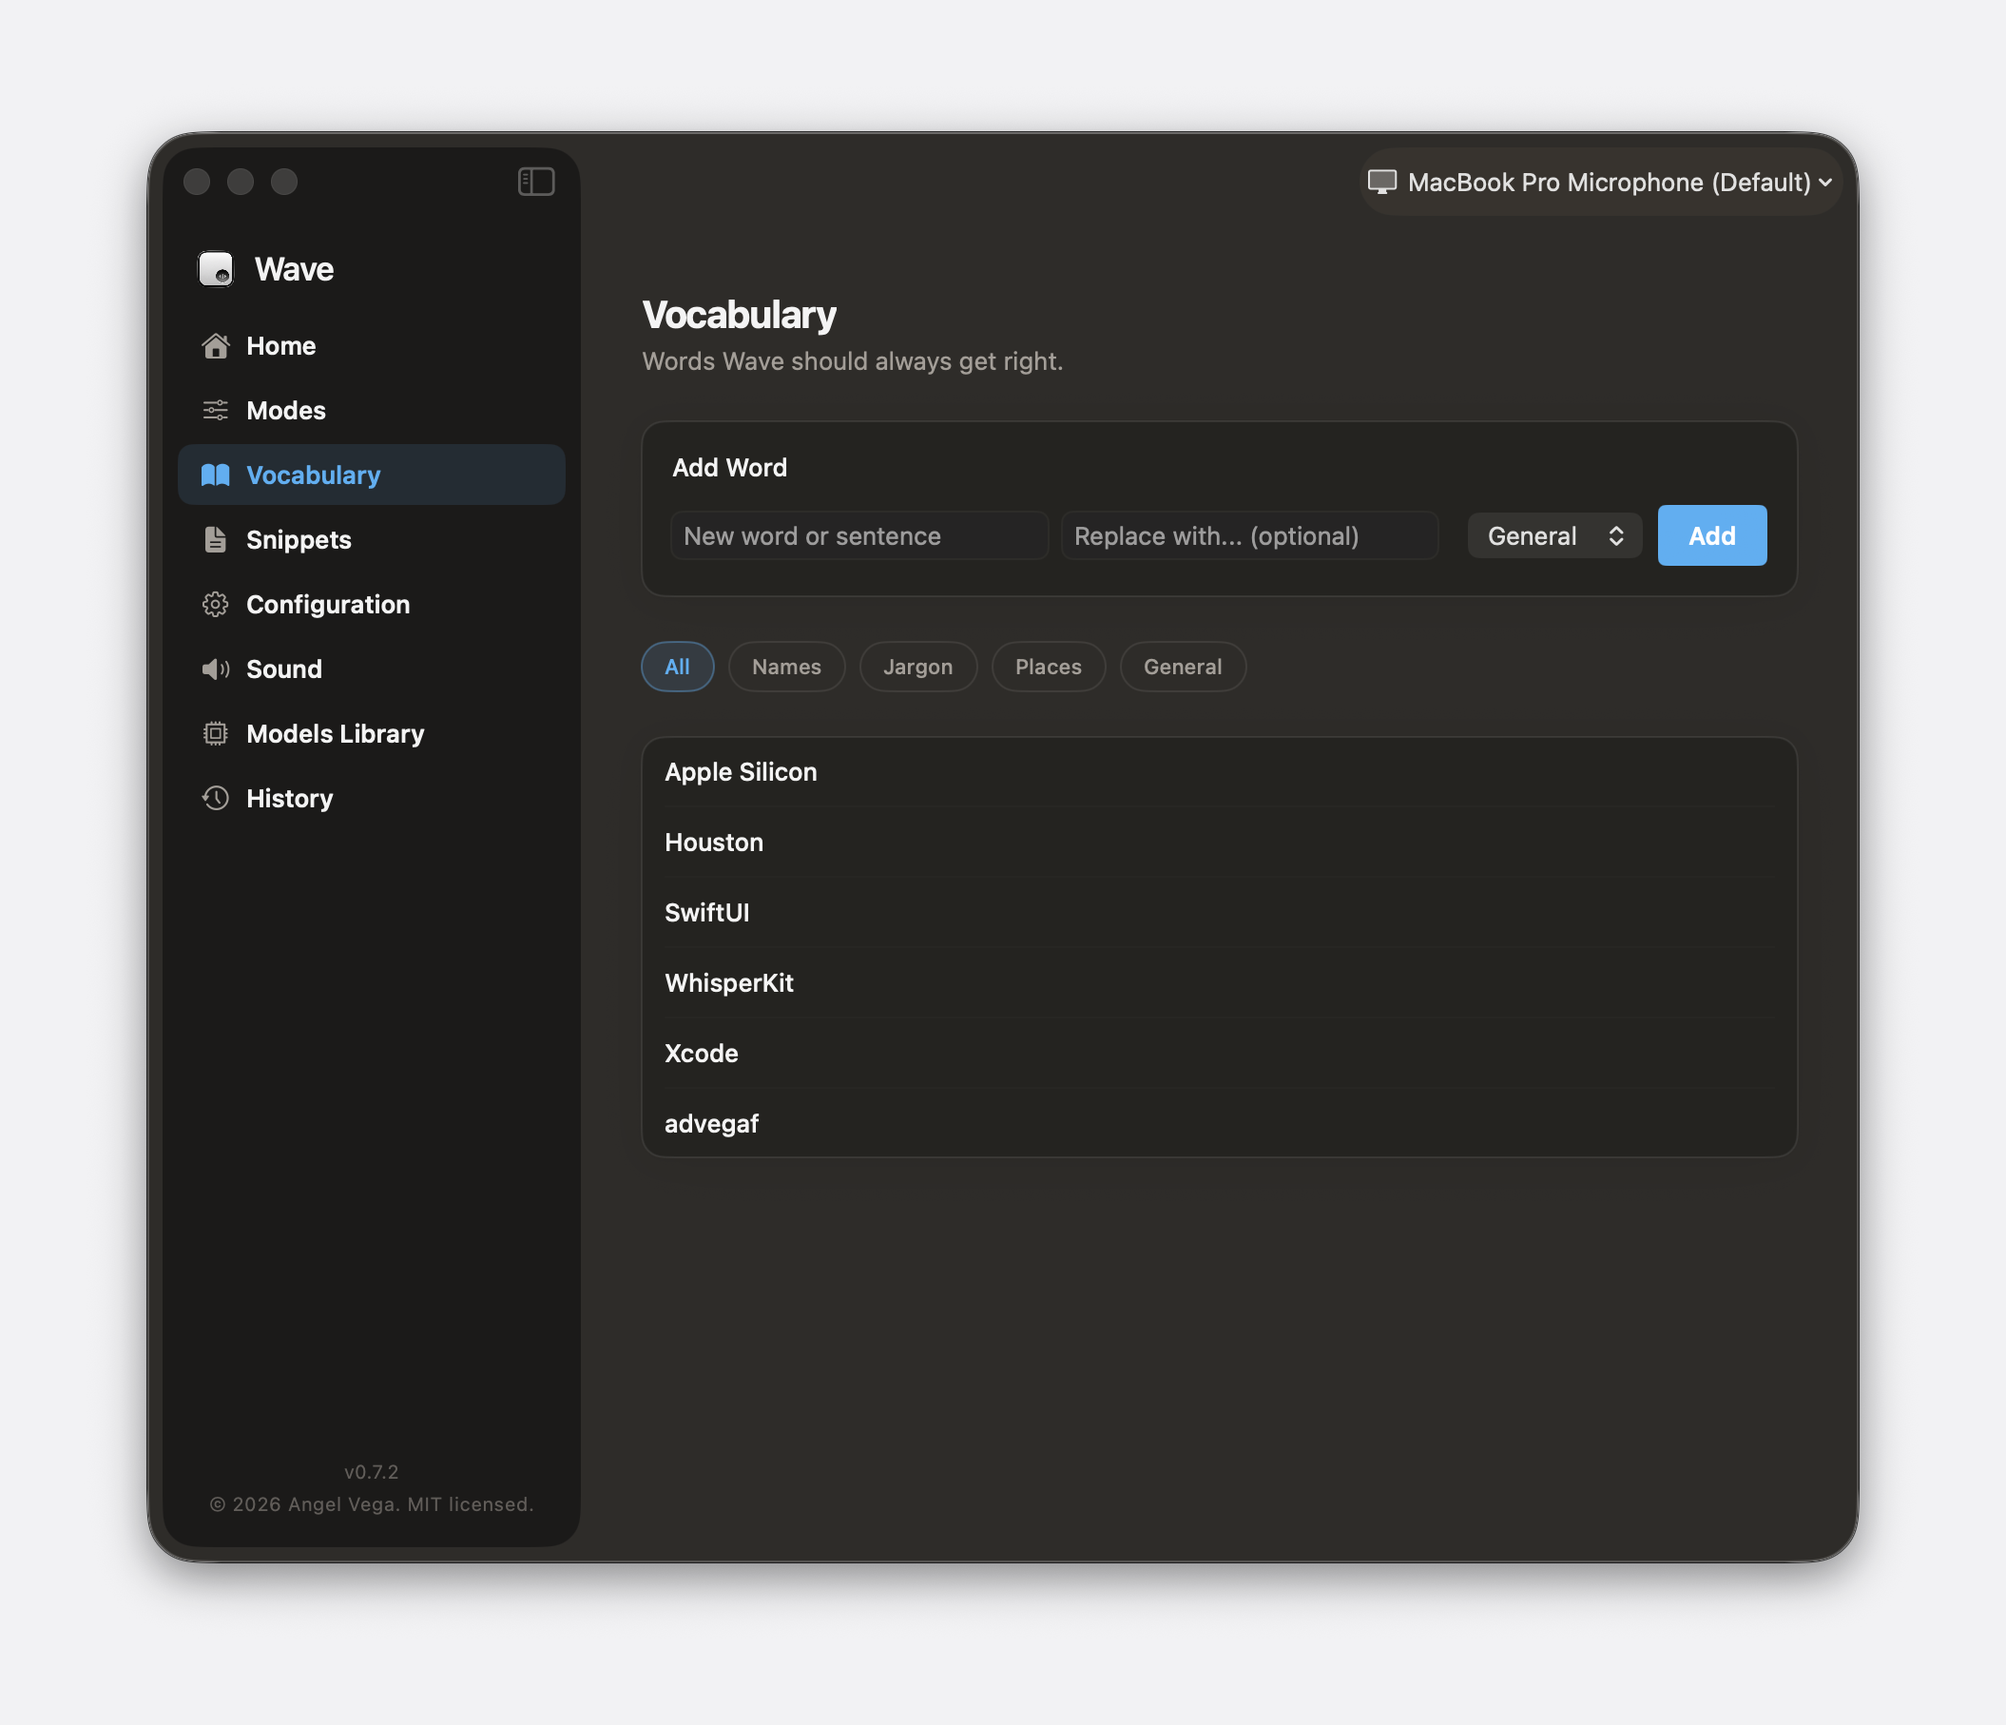
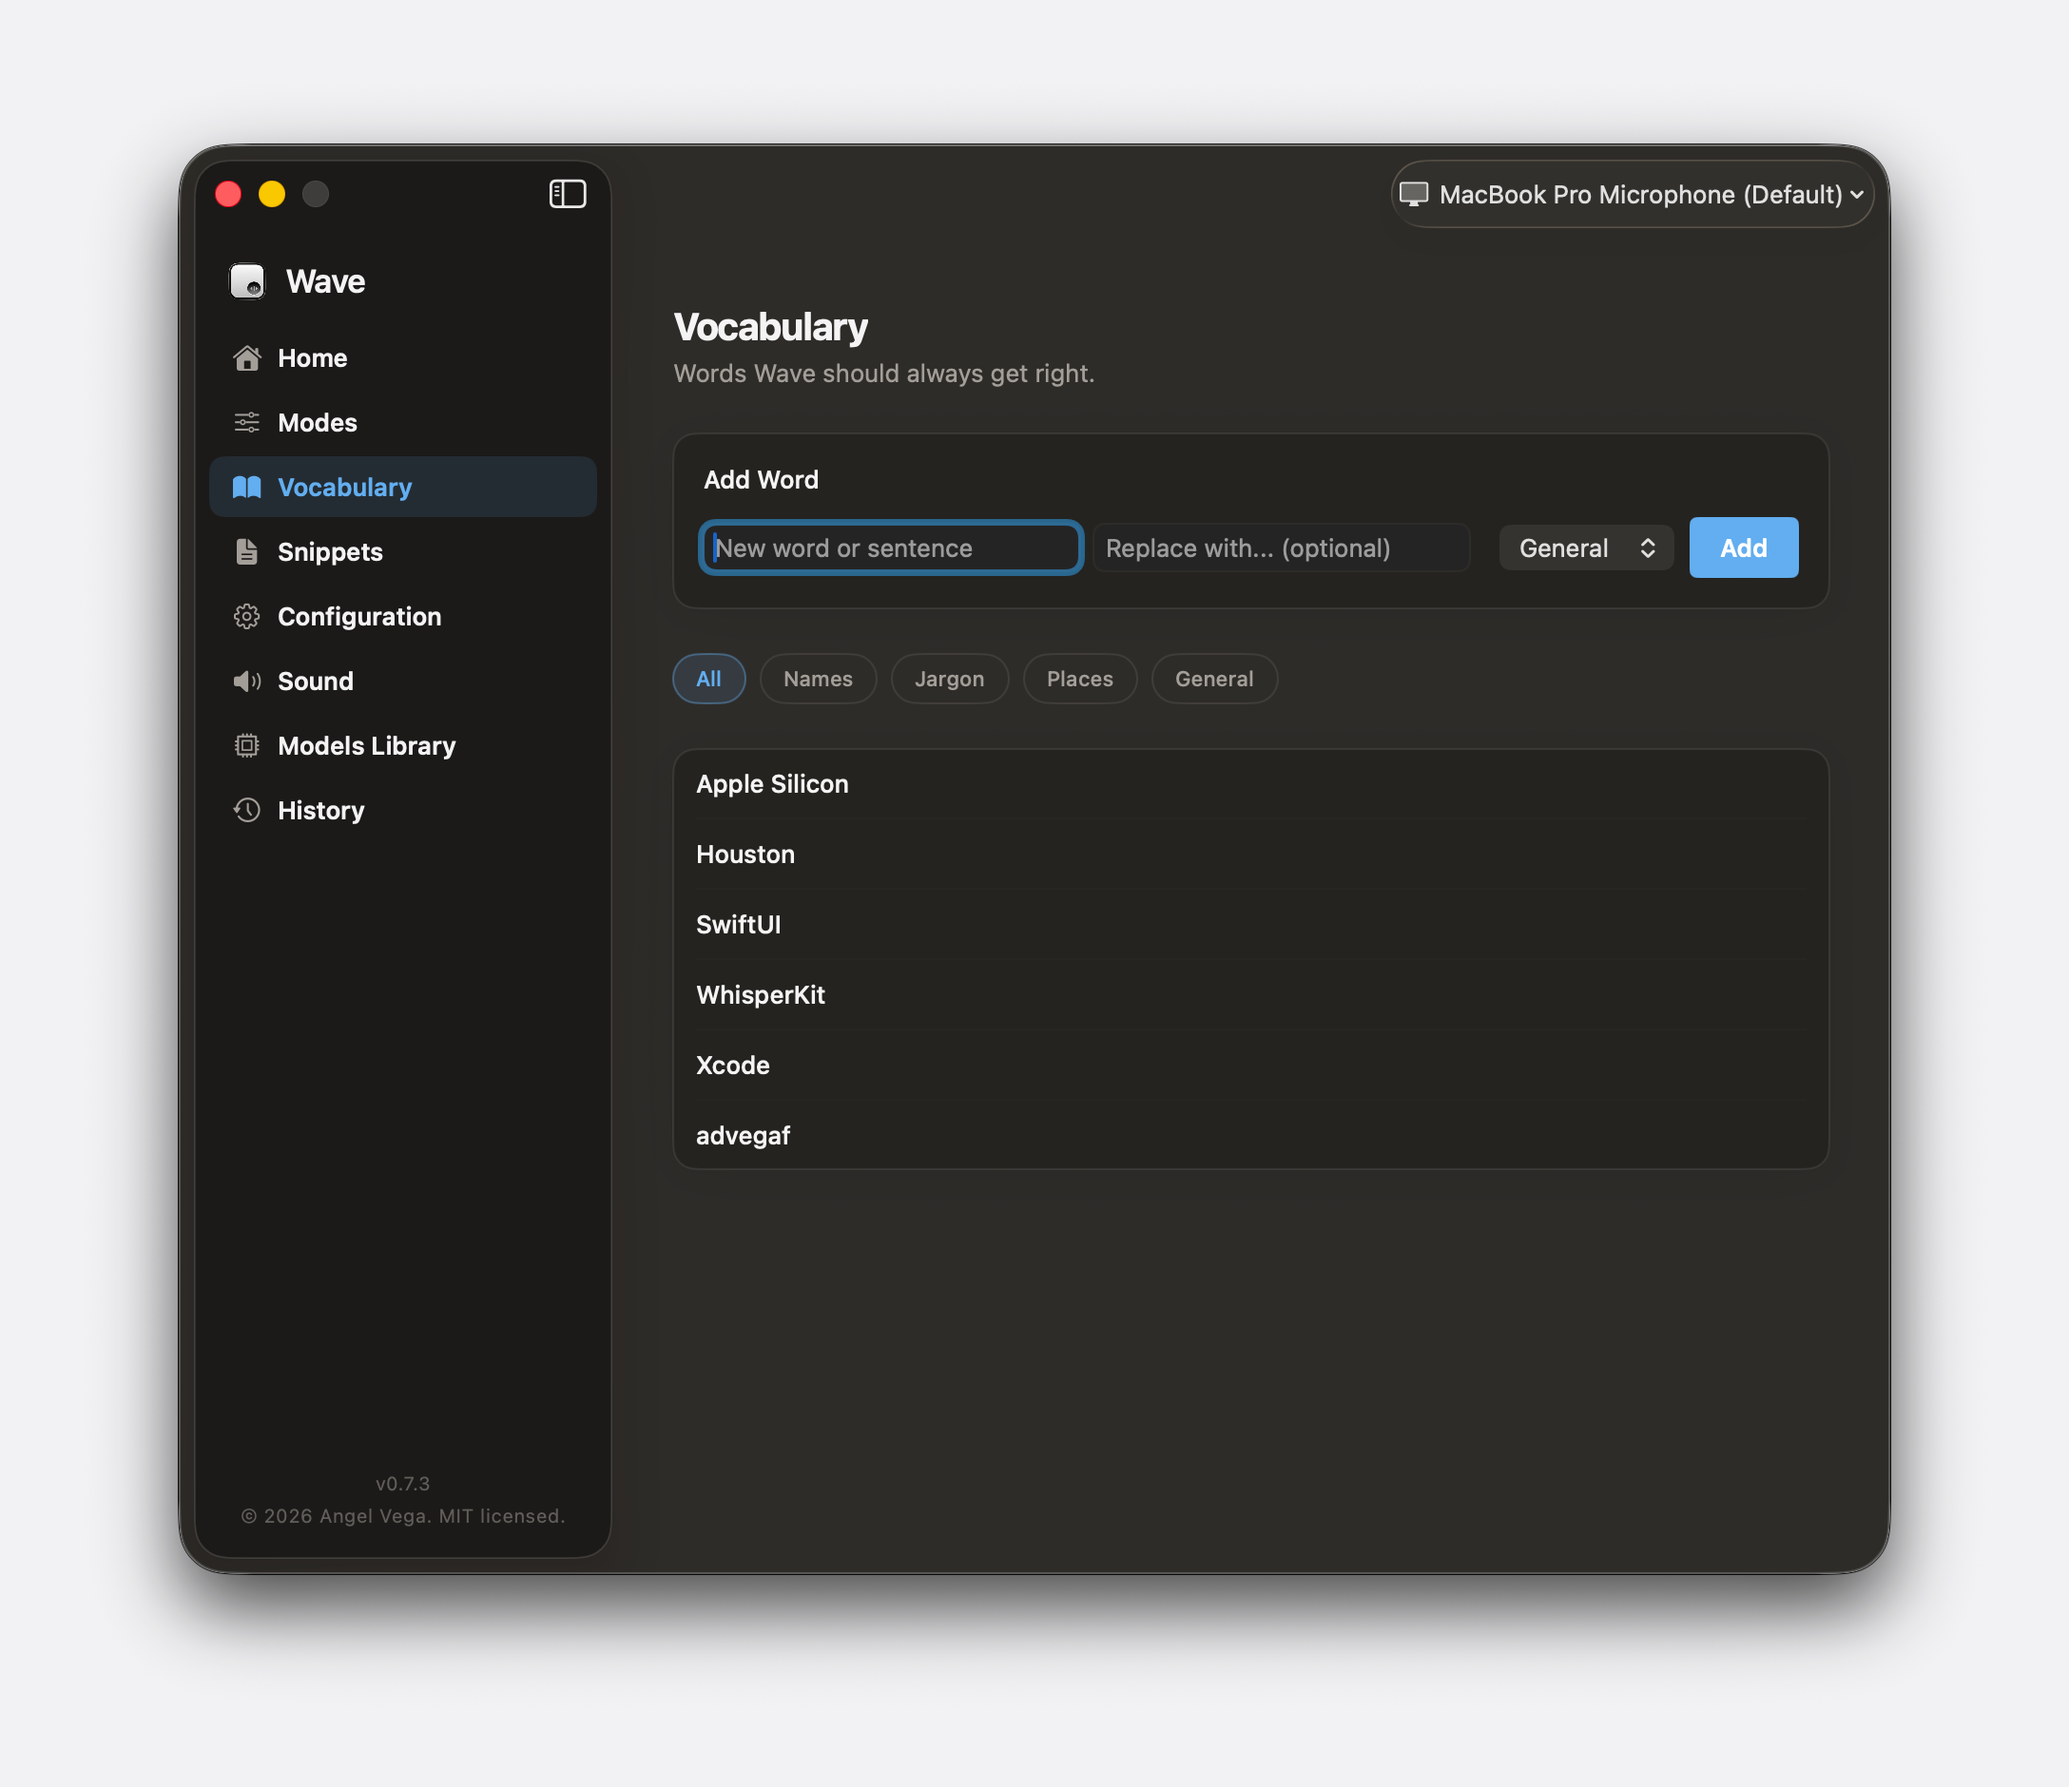
Wave v0.7.3: honest release card, menu bar mode persists, README pass
The What's New card printed today's date beside "Initial Release" and a
description of Deepgram, Claude and GPT, a stack Wave stopped calling in
0.7.0. A rewrite level picked from the menu bar was never written back, so
it reverted on the next launch while every other setter saved.

README
- Rewrote the prose against the house style the sibling repos use: no
  aphorism openers, no run of short declaratives standing in for an
  argument, a reason attached to each assertion rather than a punchline.
- The hero and the alt text now say 0.7.3.

Images
- Figure canvases are constants rather than the measured size of a
  capture. macOS draws a key window a wider shadow than an inactive one and
  a capture carries that shadow as transparent margin, so the same three
  figures came out 2176 wide on one run and 2110 on the next. Fixed canvas,
  content centred, same output every time. Verified by running the script
  twice and comparing.
- docs/images/logo.png ships at 512 rather than 1024. The README draws it
  at 120 points, so the other 1MB was detail nobody can see on the first
  image the page loads.

CONTRIBUTING said the sizes were stable across runs. They were not until
this commit, so the paragraph now says what makes them stable and why.

Version moves in Wave/Info.plist and project.yml together.

diff --git a/Tools/Screenshots/ArticleImages.swift b/Tools/Screenshots/ArticleImages.swift
@@ -236,19 +236,27 @@ do {
     write(image, to: outDirectory.appendingPathComponent("download.png"))
 }
 
-// The windows, at their own size on the ground. No frame drawn: these are
-// windows already, and a frame around a frame reads as a mistake.
+// The windows on the ground, centred in a fixed canvas. No frame drawn: these
+// are windows already, and a frame around a frame reads as a mistake.
+//
+// The canvas is a constant rather than the capture's own size plus a margin.
+// macOS draws a key window a wider drop shadow than an inactive one, and a
+// capture carries that shadow as transparent margin, so sizing the canvas off
+// the measured content meant the same three figures came out 2176 wide on one
+// run and 2110 on the next. Fixing the canvas and centring inside it makes the
+// output the same every time, and a shadow that is 33px wider just sits 33px
+// further into the margin.
+let figureCanvas = CGSize(width: 2176, height: 1880)
 for name in ["modes", "vocabulary", "history"] {
     let capture = raw(name)
-    let margin: CGFloat = 120
-    let canvasSize = CGSize(width: capture.content.width + margin * 2,
-                            height: capture.content.height + margin * 2)
-    let image = ground(Int(canvasSize.width), Int(canvasSize.height))
+    let image = ground(Int(figureCanvas.width), Int(figureCanvas.height))
     withCanvas(image) {
-        place(capture, content: CGRect(x: margin, y: margin,
-                                       width: capture.content.width,
-                                       height: capture.content.height),
-              canvasHeight: canvasSize.height, interpolation: .none)
+        place(capture,
+              content: CGRect(x: (figureCanvas.width - capture.content.width) / 2,
+                              y: (figureCanvas.height - capture.content.height) / 2,
+                              width: capture.content.width,
+                              height: capture.content.height),
+              canvasHeight: figureCanvas.height, interpolation: .none)
     }
     write(image, to: outDirectory.appendingPathComponent(name + ".png"))
 }

diff --git a/Wave/UI/MainWindow/Home/HomeView.swift b/Wave/UI/MainWindow/Home/HomeView.swift
@@ -159,8 +159,8 @@ struct HomeView: View {
     /// today's date beside a description of a stack the app no longer uses.
     /// Update it in the same commit that moves CFBundleShortVersionString.
     static let latestRelease = (
-        date: "Apr 22",
-        summary: "Transcription and rewriting both run on this Mac now. WhisperKit for the speech, a local MLX model for the cleanup. No keys, no account, no request leaves the machine."
+        date: "Sep 11",
+        summary: "A rewrite level picked from the menu bar survives a relaunch now. This card used to print today's date beside a description of a stack Wave dropped in 0.7.0, so it says what shipped instead."
     )
 
     static var latestReleaseTitle: String {

diff --git a/README.md b/README.md
@@ -5,11 +5,11 @@
 <h1 align="center">Wave</h1>
 
 <p align="center">
-  Talk at the speed you think. Hold a key, say the thing, and clean text lands wherever the cursor already was. The speech and the cleanup both run on your Mac.
+  Talk at the speed you think. Hold a key, say it, and clean text lands wherever the cursor already was. The speech and the cleanup both run on your Mac.
 </p>
 
 <p align="center">
-  <img src="docs/images/hero.png" width="960" alt="Wave's Home page, showing dictation stats for the week above a Get Started list and the release note for version 0.7.2">
+  <img src="docs/images/hero.png" width="960" alt="Wave's Home page, showing dictation stats for the week above a Get Started list and the release note for version 0.7.3">
 </p>
 
 <p align="center">
@@ -24,14 +24,15 @@ Dictation on a Mac has been the same trade for years. The built in one hears you
 accurately and writes down every "um" and every sentence you started twice. The
 good ones fix that by sending your voice to a server.
 
-Wave takes the third option. Whisper hears you, and a small language model
-tidies what it heard. Both run on this Mac, off files on your disk. There is no
-account and no key to paste. The only time Wave uses the network is the first
-download of a model; after that you can be offline and it still works.
+Wave does neither. Whisper hears you and a small language model tidies what it
+heard, both of them running here, off files on your disk. There is no account
+and no key to paste. The network is used once, to pull down a model, and after
+that Wave works with the Wi-Fi off.
 
 Press Command Shift Space, talk the way you actually talk, press it again.
 Escape throws the recording away. A waveform floats above the Dock while it
-listens so you can see it is hearing you.
+listens, because the alternative is talking at a machine that gives you no sign
+it is recording.
 
 ## Install
 
@@ -50,8 +51,8 @@ Requires macOS 26 and an Apple Silicon Mac.
   <img src="docs/images/modes.png" width="960" alt="The Modes page, with Raw, Light, Moderate and Heavy rewrite levels and Heavy selected">
 </p>
 
-Raw pastes the transcript and nothing else. No model runs, so it is the fastest
-and the only mode that cannot invent a word you did not say.
+Raw pastes the transcript and nothing else. No model runs, which makes it the
+fastest of the four and the only one that cannot invent a word you did not say.
 
 Light strips the fillers and the false starts. Moderate fixes grammar and cuts
 run on sentences apart while leaving your phrasing alone. Heavy reads which app
@@ -72,8 +73,8 @@ the thing you are building, whatever your team calls the staging environment.
 Add them here, under Names, Jargon, Places or General, and give a replacement
 if the spelling out loud is not the spelling on the page.
 
-Snippets are the other half of it. Give a phrase you would actually say, pair
-it with the text it should become, and saying the phrase pastes the text.
+Snippets do the same job for whole phrases. Give one you would actually say,
+pair it with the text it should become, and saying it pastes the text.
 
 ## Everything it wrote down
 
@@ -81,8 +82,8 @@ it with the text it should become, and saying the phrase pastes the text.
   <img src="docs/images/history.png" width="960" alt="The History page, with five transcripts grouped under Today, each tagged with the app it was pasted into">
 </p>
 
-Every transcription is kept, searchable, with the app it went into. It is a
-local SQLite file. Nothing syncs it anywhere.
+Every transcription is kept, searchable, with the app it went into. It lives in
+a local SQLite file that nothing syncs anywhere.
 
 ## Models
 

diff --git a/CHANGELOG.md b/CHANGELOG.md
@@ -1,5 +1,24 @@
 # Changelog
 
+## 0.7.3
+
+- **A rewrite level picked from the menu bar sticks.** Every other place the
+  level can be set wrote it back; the menu bar popover did not, so a mode chosen
+  there lasted until the next launch and then reverted to whatever the Modes
+  page last saved.
+- **What's New says what shipped.** The card printed today's date, whatever day
+  you opened it, beside the words "Initial Release" and a description of
+  Deepgram, Claude and GPT. Wave stopped calling any of them in 0.7.0. It now
+  carries the real release note, takes its version from the bundle, and "View
+  all changes" opens the releases page rather than doing nothing. "Try it now"
+  was a button wired to an empty closure and is gone.
+- The sidebar read "All rights reserved" underneath an MIT licence.
+- `Tools/Screenshots/make-docs-images.sh` regenerates every image in the README:
+  each page of the main window photographed through the window server with its
+  own shadow, composited onto a flat ground. It runs against a throwaway
+  database seeded with fixtures, so a capture cannot reach real transcripts,
+  vocabulary or preferences.
+
 ## 0.7.2
 
 - **Overlay animation is yours to set.** Configuration has an Animation section:

diff --git a/CONTRIBUTING.md b/CONTRIBUTING.md
@@ -34,9 +34,15 @@ sqlite file that is deleted and reseeded on every launch, and it never calls
 `saveToPreferences()`. Without it a capture photographs your real transcripts
 and whatever vocabulary you have added.
 
-The window sizes in `docs/images` are stable across runs, and that is checked by
-running the script twice and comparing. The files are not byte identical: the
-search field has a caret in it and it blinks.
+Every file in `docs/images` comes out the same size on every run, because the
+canvases are constants in `ArticleImages.swift` rather than the measured size of
+a capture. That matters more than it sounds: macOS draws a key window a wider
+drop shadow than an inactive one, a capture carries that shadow as transparent
+margin, and sizing a canvas off it gave three figures that were 2176 wide on one
+run and 2110 on the next.
+
+The files are not byte identical between runs. The search field has a caret in
+it and it blinks.
 
 ## What this project holds itself to
 
